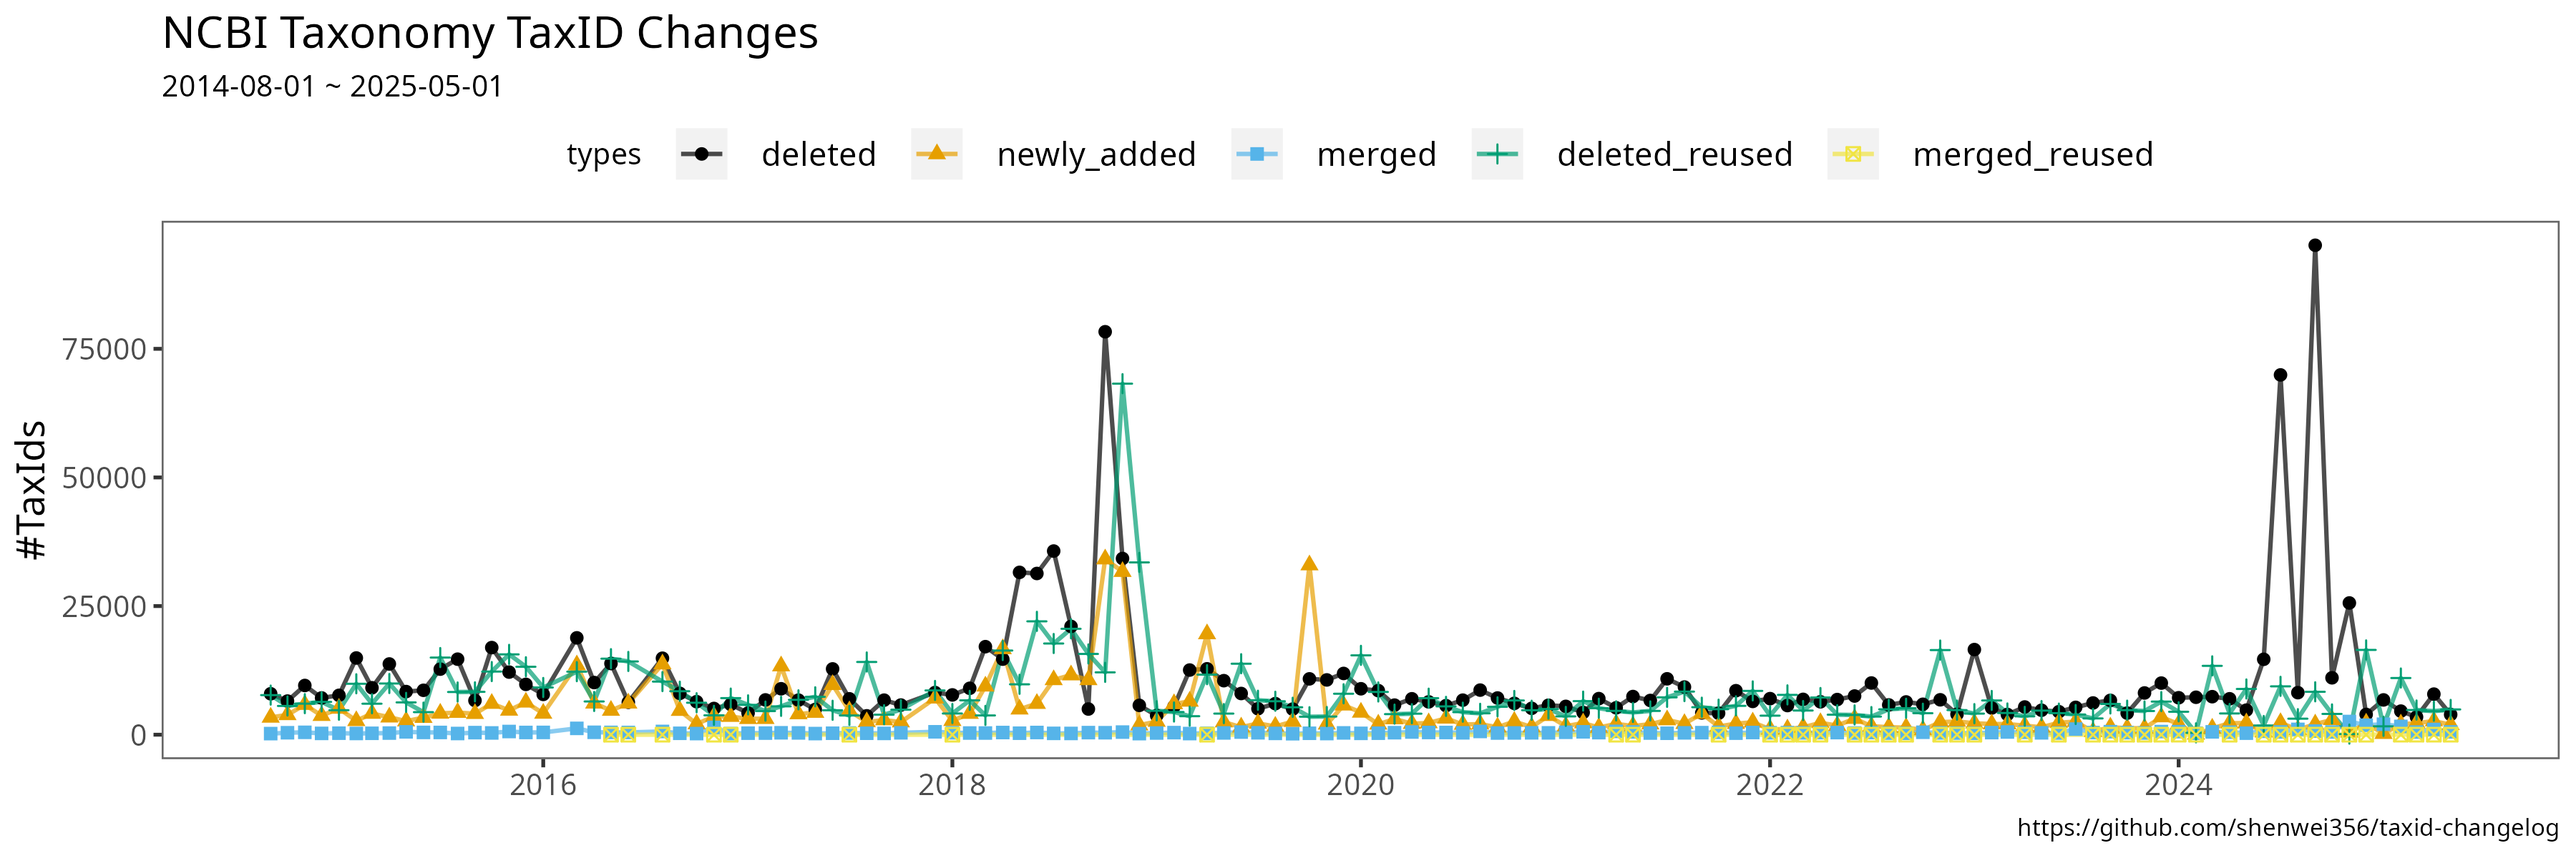
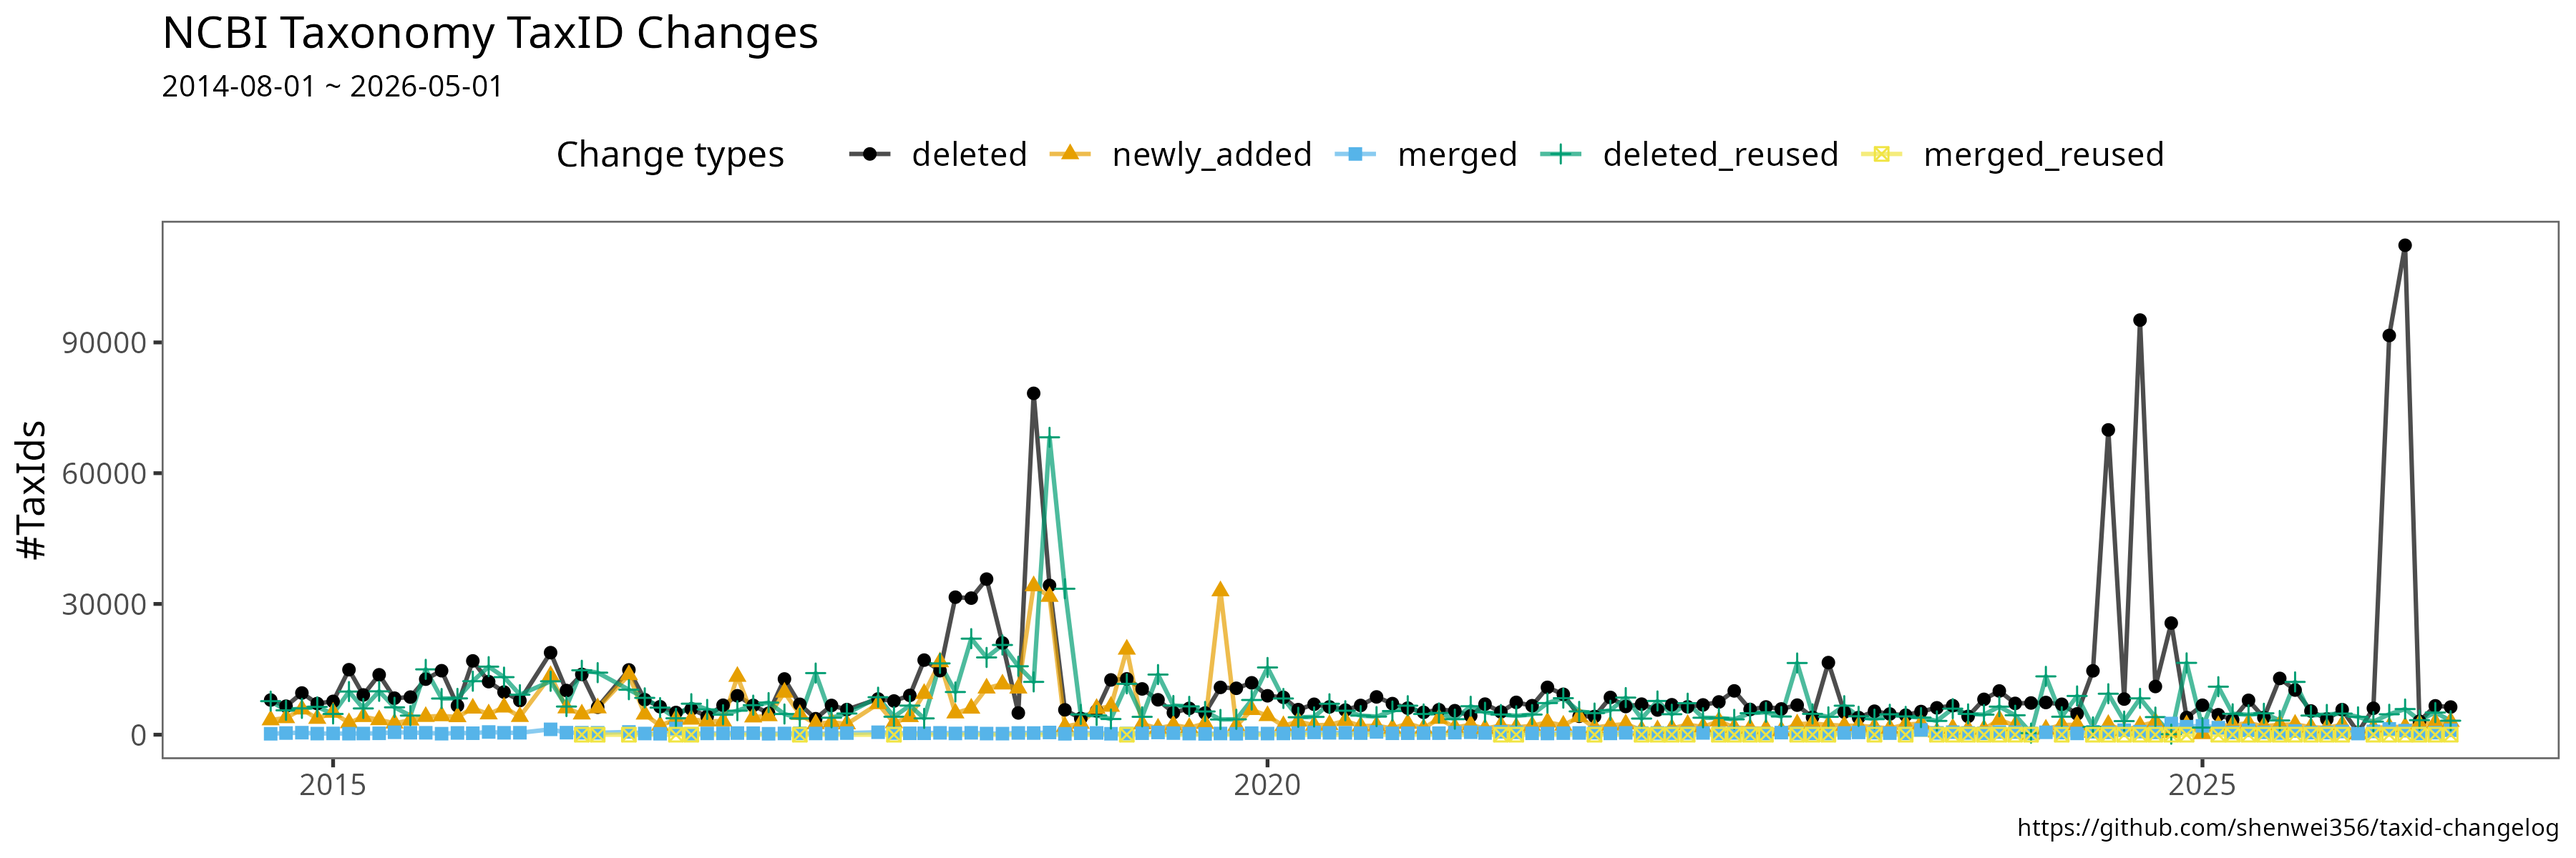
v2026.05

diff --git a/README.md b/README.md
@@ -764,7 +764,7 @@ Dependencies:
 Hardware requirements:
 
 - DISK: > 30 GiB
-- RAM: >= 100 GiB (79 GiB for 131 archives, in 43 min, 2025/05/01)
+- RAM: >= 100 GiB (92 GiB for 143 archives, in 51 min, 2026/05/01)
 
 Steps:
 
